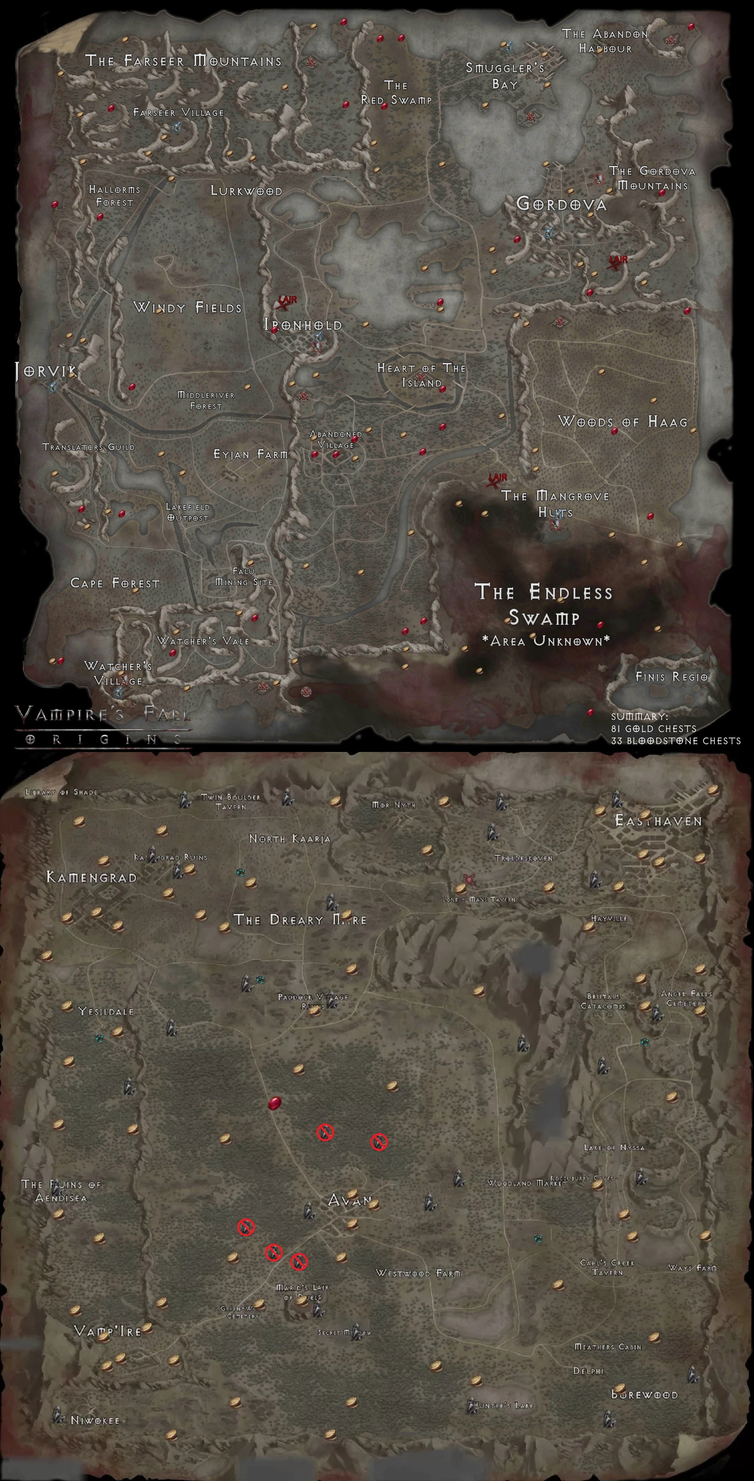
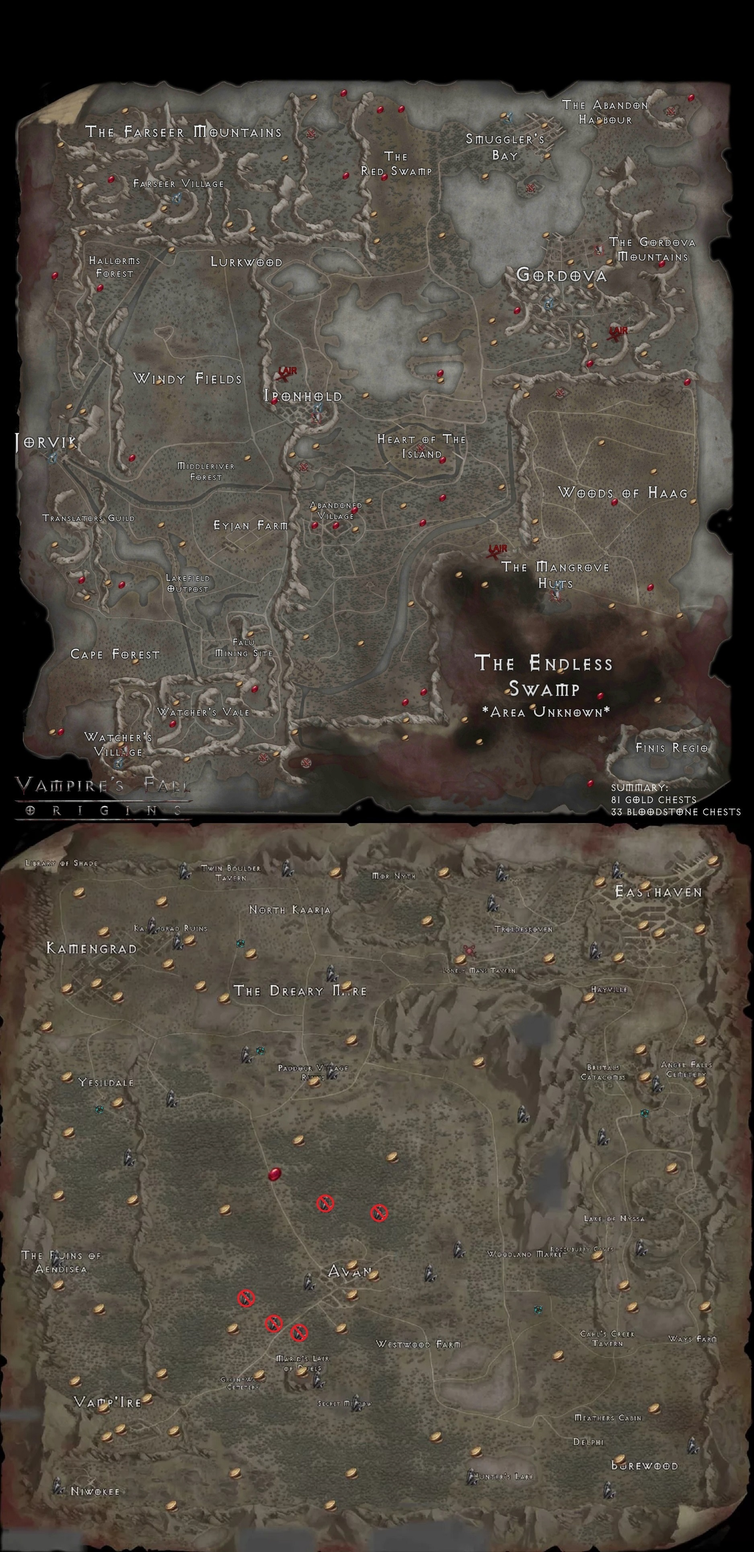
Add key image to site

diff --git a/vfo-chests.html b/vfo-chests.html
@@ -110,7 +110,7 @@
             background-image: url( images/full-map.jpg );
             background-repeat: no-repeat;
             min-width: 1875px;
-            min-height: 3683px;
+            min-height: 3860px;
         }
 
         input {
@@ -118,14 +118,14 @@
         }
 
         #reset {
-            margin-top: 20px;
-            margin-left: 20px;
+            margin-top: 40px;
+            margin-left: 30px;
             padding-top: 4px;
             padding-bottom: 4px;
             width: 100px;
             background-color: white;
             cursor: pointer;
-            border: solid 1px white;
+            border: groove 2px gray;
             border-radius: 4px;
             text-align: center;
             font-family: sans-serif;
@@ -133,17 +133,29 @@
             font-weight: bold;
         }
 
+        #key {
+            position: absolute;
+            top: 15px;
+            left: 320px;
+            border: groove 2px gray;
+            background-image: url( images/key.png );
+            background-repeat: no-repeat;
+            min-width: 238px;
+            min-height: 176px;
+        }
+
         #c0 {
-            top: 89px;
+            top: 266px;
             left: 320px;
         }
         #c1 {
-            top: 55px;
+            top: 232px;
             left: 787px;
         }
     </style>
 </head>
 <body onload="initializePage();">
     <div id="reset" onclick="resetPage();">Reset</div>
+    <div id="key"></div>
 </body>
 </html>
